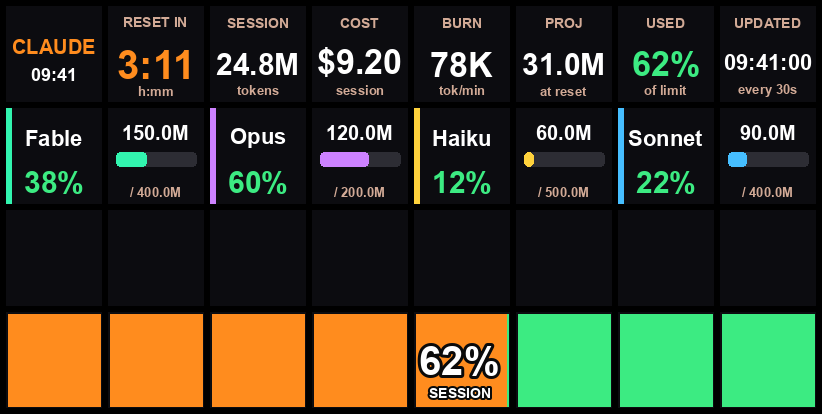
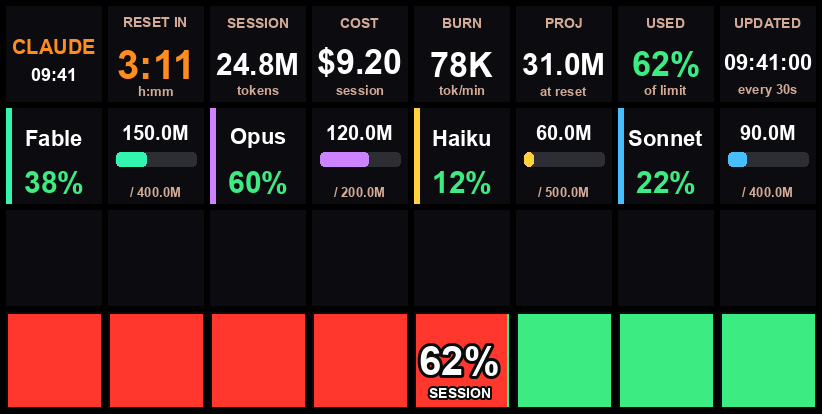
Use red fill for the bottom usage bar
Change the progress bar's used segments from orange to red.

Changed region(s): [[0.0, 0.7536, 0.6387, 0.9855]]

diff --git a/src/render/tiles.py b/src/render/tiles.py
@@ -242,7 +242,7 @@ def progress_segment_key(
     seg_fill: float,
     label: str = "",
     overflow: bool = False,
-    filled_color=ORANGE,
+    filled_color=RED,
     empty_color=OK,
     size: int = KEY_SIZE,
 ) -> Image.Image: